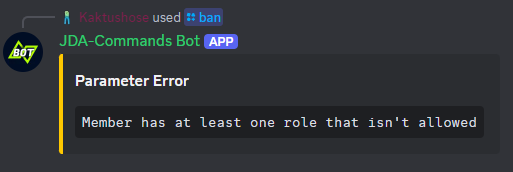
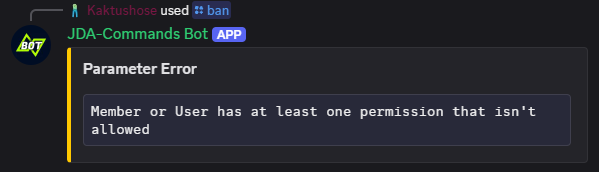
update validator wiki

diff --git a/docs/middlewares/validator.md b/docs/middlewares/validator.md
@@ -5,26 +5,19 @@ with the respective annotation.
 ## Default Validators
 JDA-Commands comes with the following default constraints:
 
-- [`@Role`](https://kaktushose.github.io/jda-commands/javadocs/4/io.github.kaktushose.jda.commands.core/com/github/kaktushose/jda/commands/annotations/constraints/Role.html):
-  The member must have the specified guild role. 
-- [`@NotRole`](https://kaktushose.github.io/jda-commands/javadocs/4/io.github.kaktushose.jda.commands.core/com/github/kaktushose/jda/commands/annotations/constraints/NotRole.html):
-  The member must **not** have the specified guild role. 
-- [`@User`](https://kaktushose.github.io/jda-commands/javadocs/4/io.github.kaktushose.jda.commands.core/com/github/kaktushose/jda/commands/annotations/constraints/User.html):
-  Must be the specified user or member
-- [`@NotUser`](https://kaktushose.github.io/jda-commands/javadocs/4/io.github.kaktushose.jda.commands.core/com/github/kaktushose/jda/commands/annotations/constraints/NotUser.html):
-  Must **not** be the specified user or member.
+- [`@Min`](https://kaktushose.github.io/jda-commands/javadocs/4/io.github.kaktushose.jda.commands.core/com/github/kaktushose/jda/commands/annotations/constraints/Min.html):
+  The number must be less or equal to the specified maximum.
+- [`@Max`](https://kaktushose.github.io/jda-commands/javadocs/4/io.github.kaktushose.jda.commands.core/com/github/kaktushose/jda/commands/annotations/constraints/Max.html):
+  The number must be greater or equal to the specified minimum.
 - [`@Perm`](https://kaktushose.github.io/jda-commands/javadocs/4/io.github.kaktushose.jda.commands.core/com/github/kaktushose/jda/commands/annotations/constraints/Perm.html):
   The user or member that have the specified discord permission.
 - [`@NotPerm`](https://kaktushose.github.io/jda-commands/javadocs/4/io.github.kaktushose.jda.commands.core/com/github/kaktushose/jda/commands/annotations/constraints/NotPerm.html):
   The user or member that **doesn't** have the specified discord permission.
 
-The user and role annotations will resolve the snowflake entity dynamically using the respective [type adapter](./typeadapter.md).
-This means that you can either pass an ID or a name. 
-
 !!! example
     ```java
     @Command("ban")
-    public void onBan(CommandEvent event, @NotRole("Admin") Member target) {...}
+    public void onBan(CommandEvent event, @NotPerm("ADMINISTRATOR") Member target) {...}
     ```
 
 An error message is sent, if a parameter constraint fails:
